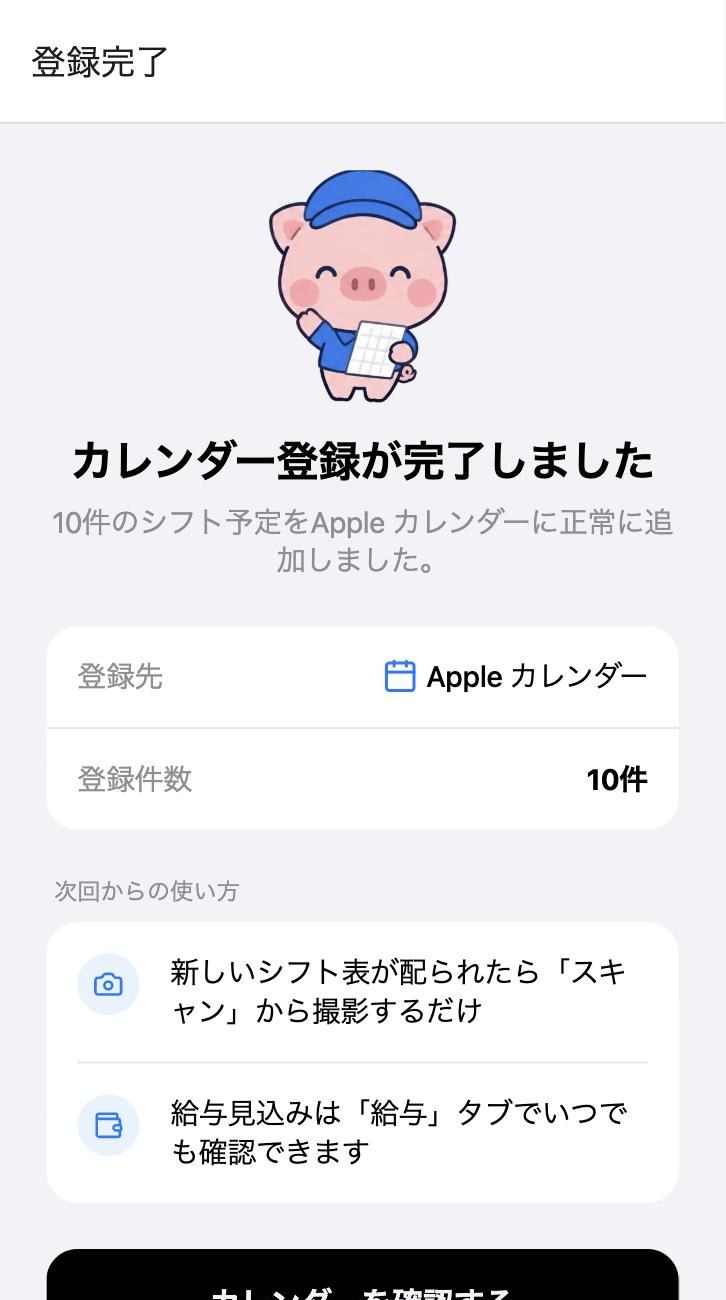
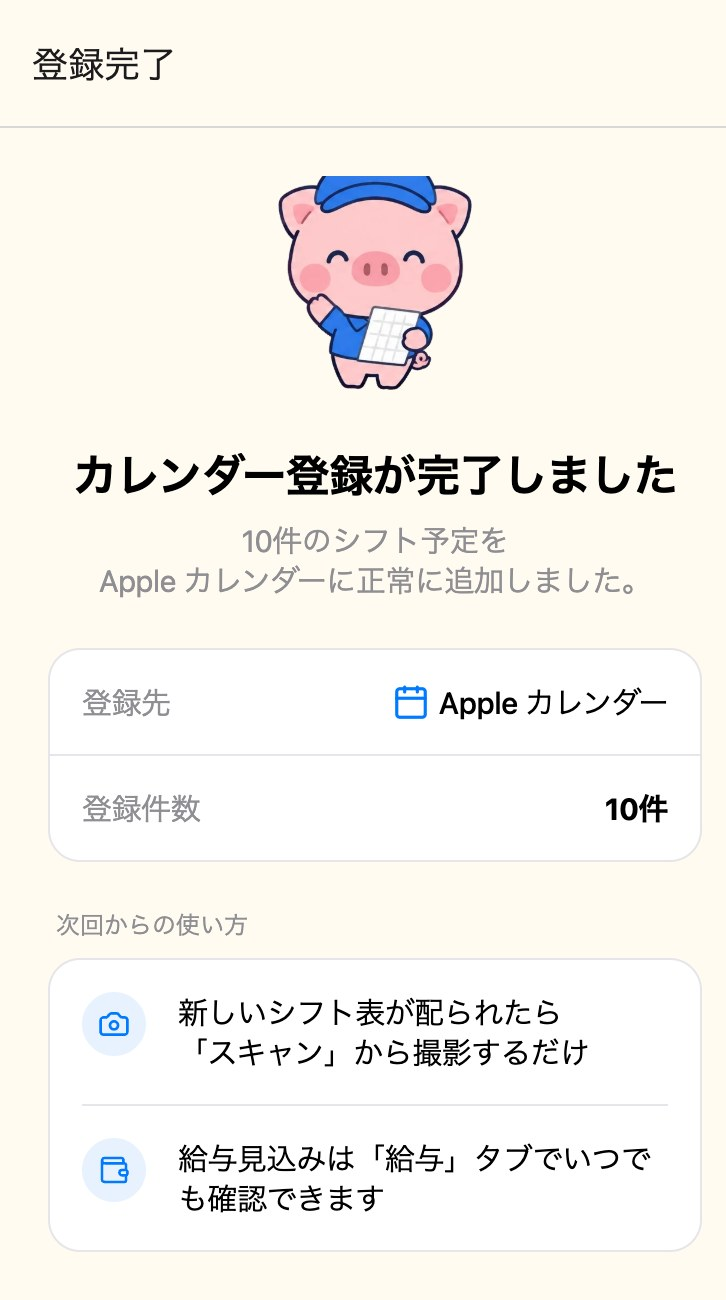
チュートリアルの説明②〜⑤の画像を今の画面で撮り直す
地の色・カードの枠線・文字の段階・広告の位置が変わったため、架空データで撮り直した。
撮る状態は「無料のまま・広告の枠だけ隠す」（ユーザー決定）。手順書も今の画面
（「スキャンする」・Anthropic の通信先・同意の小窓）に合わせて直した。

diff --git a/docs/tutorial-screenshots.md b/docs/tutorial-screenshots.md
@@ -11,9 +11,11 @@
 
 サンプルのシフト表は `assets/images/tutorial/sample-shift-table.png`（登場人物はすべて架空）。登録者キーワードは表の1行目の **佐藤 ひなた** にする。
 
+**撮る状態は「無料・広告の枠だけ隠す」**（2026-10-28 ユーザー決定）。チュートリアルを見るのは無料の人なので、見出しの右の札は「無料」、写真選択のボタンは青の「スキャンする」だけにする。広告の枠（Web では「広告」と書いた白い枠）は撮るときにブラウザの上で隠すだけで、アプリのコードは変えない。PRO で撮ると金の札と「高度なスキャンする」が写るので使わない。
+
 ## 手順（Expo Web・ブラウザの開発者ツールのコンソールで実行）
 
-ブラウザの表示幅を **375×812（iPhone相当）** にしてから行う。
+ブラウザの表示幅を **375×812（iPhone相当）** にしてから行う。本人の実データが入っていない 8082番（`expo-web-start`）で撮ると、退避の手間が要らない。
 
 ### 1. 自分のデータを退避して、架空のデータに差し替える
 
@@ -23,20 +25,28 @@ sessionStorage.setItem('__store_backup', localStorage.getItem(KEY));
 const v = JSON.parse(localStorage.getItem(KEY));
 v.state.user.shiftName = '佐藤 ひなた';
 v.state.user.displayName = '佐藤 ひなた';
-v.state.user.settings.isPro = true; // 広告の枠を出さないため
+v.state.user.settings.isPro = false; // 無料の人の画面で撮る
+v.state.aiConsentAt = new Date().toISOString(); // 初めてのスキャンの前の同意の小窓を出さない
 localStorage.setItem(KEY, JSON.stringify(v));
 location.href = '/template';
 ```
 
-### 2. スクロールバーを消す（ページを開くたびに実行）
+架空データ一式（`.stitch-work/fixtures/store-fictional.json`。Git 対象外）があるときは、それを入れて一度開いてから（移行が走る）上の `isPro`・`aiConsentAt` だけ書き換えて開き直す。
+
+### 2. スクロールバーと広告の枠を消す（ページを開くたびに実行）
 
 ```js
 const st = document.createElement('style');
 st.textContent = '*::-webkit-scrollbar{display:none!important} *{scrollbar-width:none!important}';
 document.head.appendChild(st);
+// 広告の枠（マイカスタム・写真選択）。下の中身との間の余白ごと消える
+const ad = [...document.querySelectorAll('*')].find(
+  (e) => e.children.length === 0 && e.textContent.trim() === '広告',
+);
+if (ad) ad.parentElement.style.display = 'none';
 ```
 
-### 3. 写真選択でサンプルを選ぶ（`/photo-select` を開いた状態で実行してから「ライブラリから選ぶ」を押す）
+### 3. 写真選択でサンプルを選ぶ（`/photo-select` を開いた状態で実行してから「ライブラリ」を押す）
 
 ```js
 const r = await fetch(
@@ -63,24 +73,28 @@ document.createElement = function (t, ...a) {
 };
 ```
 
-### 4. 解析中の画面で止める（「解析する」を押す前に実行）
+広告の枠は写真を選んだあとにもう一度隠す（2の後半を実行し直す）。
 
-AIへの通信を返さないようにして、解析中の画面のまま止める。実際の解析は行われず、回数も減らない。
+### 4. スキャン中の画面で止める（「スキャンする」を押す前に実行）
+
+AIへの通信を返さないようにして、スキャン中の画面のまま止める。実際の読み取りは行われず、回数も減らない。
 
 ```js
 const of = window.fetch;
 window.fetch = (u, ...a) =>
-  String(u).includes('generateContent') ? new Promise(() => {}) : of(u, ...a);
+  String(u).includes('/v1/messages') ? new Promise(() => {}) : of(u, ...a);
 ```
 
 ### 5. 撮影と切り出し
 
-各画面を等倍（750×1624）で撮り、アプリの描画範囲 **幅726・高さ1300** に切り出して、上の表のファイル名で JPEG（品質88）保存する。
+各画面を2倍（750×1624）で撮り、左上から **幅726・高さ1300** に切り出して、上の表のファイル名で JPEG（品質88）保存する。ヘッドレスChrome の DevTools Protocol で撮るときは、`Page.captureScreenshot` に `clip: { x: 0, y: 0, width: 363, height: 650, scale: 1 }`（2倍の画面なので726×1300になる）を渡すと切り出しまで一度に済む。
 
 ```python
 from PIL import Image
 Image.open('raw.jpg').convert('RGB').crop((0, 0, 726, 1300)).save('screen-xxx.jpg', quality=88)
 ```
+
+登録完了は `/complete?count=10` を直接開いて撮る（Web ではカレンダーへの登録が通らないため）。
 
 ### 6. 自分のデータに戻す（必ず行う）
 
